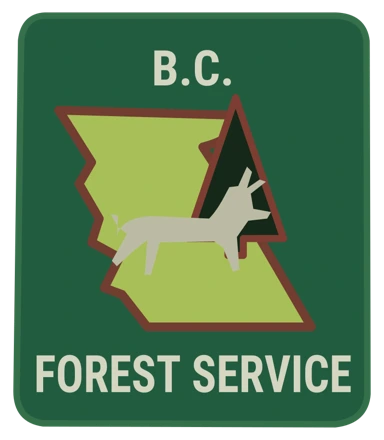
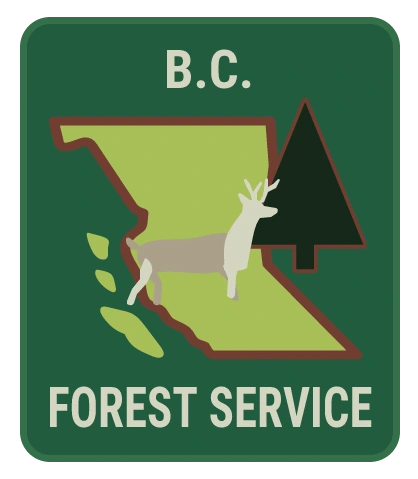
Refine S45 Forest Service emblem and caribou [skip ci]

diff --git a/library/supplied/forest-service-map-caribou/README.md b/library/supplied/forest-service-map-caribou/README.md
@@ -1,0 +1,66 @@
+# B.C. / Forest Service — emblem and caribou rectangle
+
+S45-O01 combines the Forest Service evergreen emblem used by S48-O01 with the
+captions **B.C.** and **FOREST SERVICE** and a right-facing animal. This package
+replaces the atlas's coarse polygon map and angular animal with a source-specific
+composition. It remains a reconstruction for review.
+
+## Evidence and component reuse
+
+- [S45 source photograph](https://drive.google.com/file/d/1LuVoONE1ytqacJXacmQgiucv-k5JjleR/view),
+  represented by the unchanged 418 × 479 crop in PofBC's patch review.
+- [S48 source photograph](https://drive.google.com/file/d/1bDBblhIfTPTb2v_euhvFb53evVVi_eWl/view)
+  documents the related square patch, not S45's cloth frame or wording.
+- `compose.mjs` reads `src/internal/forest-service-emblem.svg` from PofBC, the
+  same master read by `forest-service-emblem-square/compose.mjs`. It extracts
+  `mainland`, `island-north`, `island-middle`, `island-south`, `tree-trunk`, and
+  `tree-crown` without redrawing their component outlines. The SVG metadata
+  records the source file SHA-256 and the inspected PofBC revision.
+- The **caribou** identification was provided by the user on November 14, 2026.
+  The photograph is too blurred to independently establish species or a detailed
+  antler structure. The visible right-facing posture, darker body and pale neck
+  guide a restrained, manually constructed silhouette.
+
+## Construction
+
+The rectangular ground and small rounded corners belong to S45. The square
+S48 border and the bowed printed-emblem border are not transplanted. Mainland,
+islands and evergreen retain the canonical path/primitive geometry, with
+independent placement, scaling and palette for this composition. The southern
+island is fitted separately to the source's lower-left island. Red-brown borders
+are added to the mainland and tree. The tree's crown and trunk are filled again
+after their outline pass, so the parts have no internal outline seam.
+
+The animal uses separate closed curves for the torso, legs, pale neck/head and
+restrained antlers. It has no raster content, clipping masks, filters, live fonts
+or external SVG dependencies. The original `B.C.` and `FOREST SERVICE` substitute
+glyph outlines are preserved in `source/lettering.svg` and fitted separately;
+their historical typeface has not been identified.
+
+The cloth, map, outline, tree and lettering use the existing interpreted atlas
+palette. The darker animal body adds `#aaa18a`; the neck and near legs reuse
+the pale lettering colour. These are visual choices, not measured thread colours.
+
+## Rebuild
+
+From the Patcher repository, with PofBC available:
+
+```sh
+node library/supplied/forest-service-map-caribou/compose.mjs /path/to/PofBC
+# Render composed/S45-O01.svg to preview-S45-O01.webp at 418 px wide.
+npm run library:import -- --zip /path/to/bc-forestry-patch-atlas.zip
+npm run library:verify -- --zip /path/to/bc-forestry-patch-atlas.zip
+```
+
+The composed SVG is committed so normal imports and consumers do not need a
+PofBC checkout. Rebuilding this composition intentionally reads the canonical
+master; re-importing cannot restore the old atlas geometry over it.
+
+## Remaining review
+
+A sharper, flatter specimen photograph is needed to resolve fine antlers,
+limbs, glyph shapes, edge stitching and exact component contours. The available
+photo does not establish production dimensions, a physical aspect ratio, a
+manufacturing relationship between S45 and S48, or an issue date. Shared emblem
+components do not merge their catalogue records. This correction leaves the
+S48 drawing unchanged and records S45 as **needs refinement**.

diff --git a/library/README.md b/library/README.md
@@ -133,6 +133,7 @@ preview, quality line and limitations:
 | MC12-O01 Fish & Game title, MC13-O02 Predator Control / Division | `supplied/bc-fish-game-rockers/`: constructed felt shapes and custom stroke alphabets, with independent curved baselines and a straight DIVISION row (`compose.py`) |
 | MC05-O01 British Columbia / Game / Warden | `supplied/bc-game-warden/`: a constructed felt cap and custom tall narrow upper lettering, with individually placed glyphs and compact GAME/WARDEN rows (`compose.py`) |
 | S48-O01 Forest Service evergreen emblem, cloth square | `supplied/forest-service-emblem-square/`: PofBC's Forest Service evergreen emblem in the atlas's thread colours (`compose.mjs`) |
+| S45-O01 B.C. / Forest Service, emblem and caribou rectangle | `supplied/forest-service-map-caribou/`: the same mainland, islands, crown and trunk used by S48, fitted to S45 with red-brown outlining, a constructed animal and refitted outlined captions (`compose.mjs`) |
 | S56-O38 British Columbia / SPCA roundel | `supplied/bc-spca-roundel/`: concentric circles, a heavier equal-arm cross and re-spaced atlas letter outlines fitted to a supplied 66 × 55 photograph (`compose.mjs`) |
 | S56-O43 Fire Commissioner | `supplied/fire-commissioner-badge/`: a supplied scalloped-shield shape study as the outline, with the atlas's arms and lettering (`compose.mjs`) |
 | MC03-O01 B.C. Game Department / Predator Branch | `supplied/bc-predator-branch/`: a supplied vector package, used whole, which reads the captions the atlas left out |
